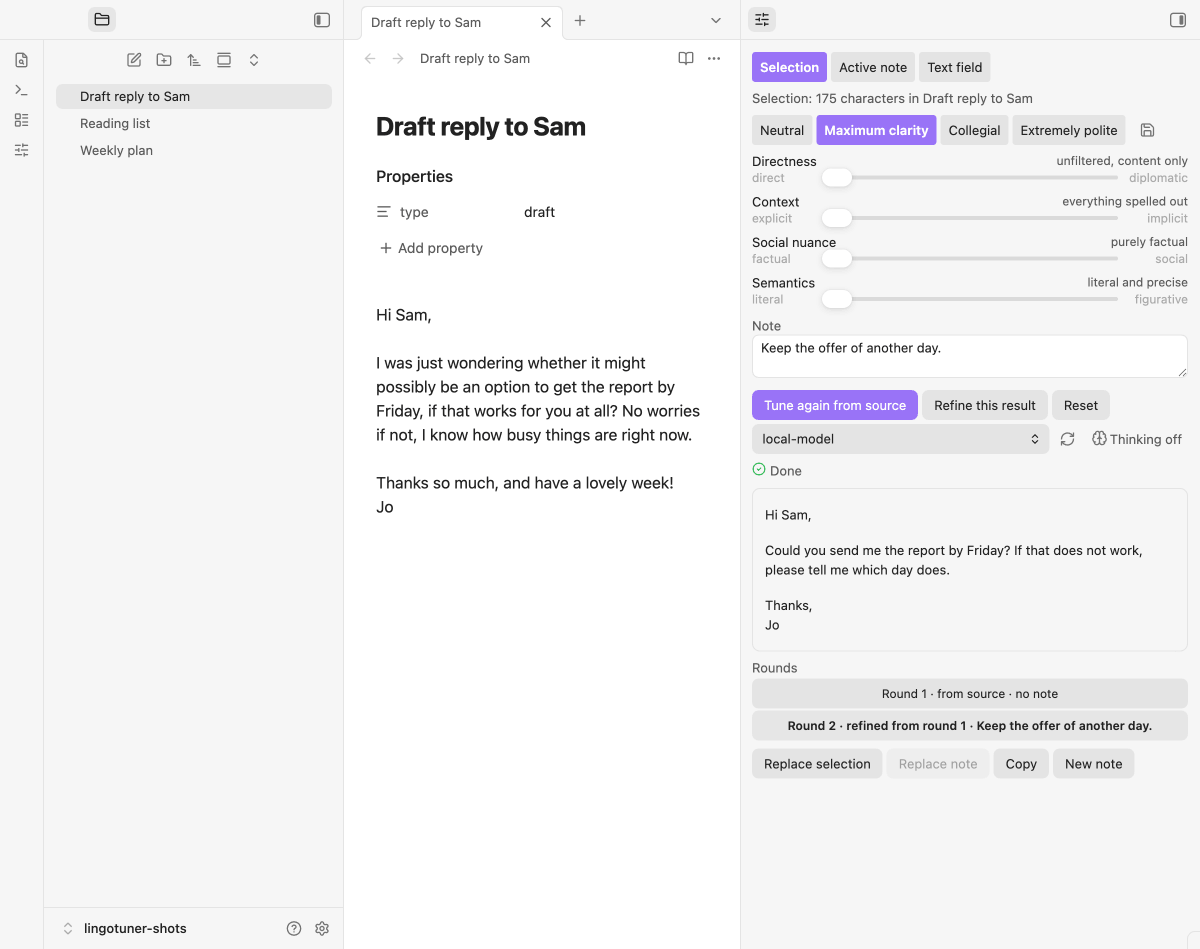
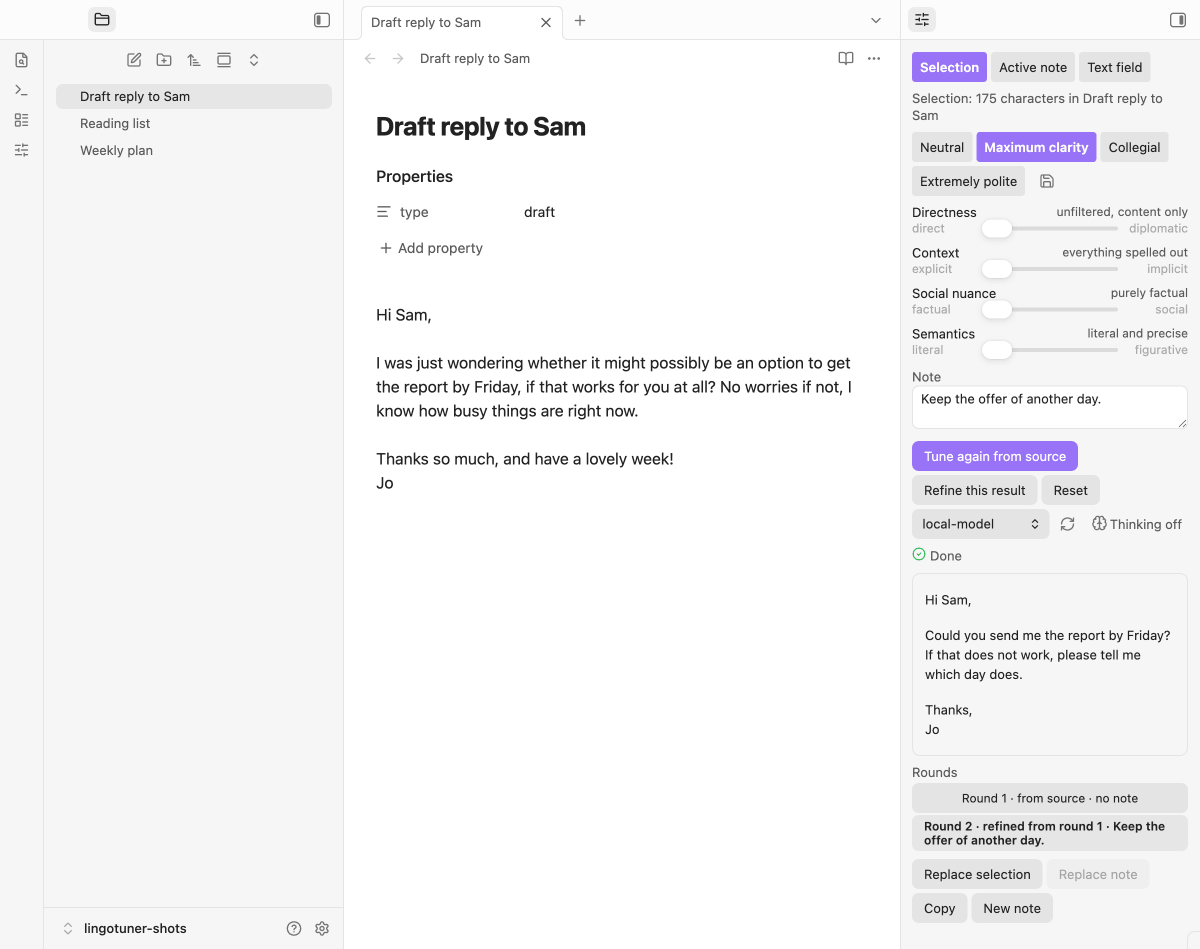
fix(panel): Runden-Zeile bricht um statt links abgeschnitten zu werden; Smoke-Punkt R1; rounds.png in Standardbreite, settings.png mit ganzen Gruppen

diff --git a/scripts/gui-smoke.ts b/scripts/gui-smoke.ts
@@ -1425,6 +1425,79 @@ async function pruefeManager(cdp: Cdp, port: number): Promise<void> {
   }
 }
 
+/** R1 — die Zeile der aktiven Runde laeuft in der Standardbreite der Sidebar nicht ueber (Welle 9).
+ *
+ *  Gemessen wird an einem ECHTEN Lauf gegen einen Fake-Server (zwei Runden, die zweite mit langer
+ *  Anmerkung), bei ~300 px Sidebar-Breite: kein `.lt-history-row` darf breiter scrollen, als es
+ *  ist. Anlass: `rounds.png` fuer die README zeigte den Fehler nur, wenn man ihn ansah — die Zeile
+ *  wurde links abgeschnitten, und die Aufnahme haette ihn mit einer breiteren Sidebar versteckt.
+ *  Gegenprobe: mit der alten Regel (`white-space: nowrap` vom Button) ist dieser Punkt rot. */
+async function pruefeRundenZeile(cdp: Cdp): Promise<void> {
+  const name = "R1 Runden-Zeile laeuft bei ~300 px nicht ueber";
+  let fake: FakeChatEndpoint | null = null;
+  let vorher: { eps: unknown; breite: number } | null = null;
+  try {
+    fake = await startFakeChatEndpoint("smoke-rounds-model");
+    vorher = await cdp.evaluate<{ eps: unknown; breite: number }>(`return { eps: app.plugins.plugins[${q(PLUGIN_ID)}].settings.endpoints, breite: app.workspace.rightSplit.size ?? 300 };`);
+    await cdp.evaluate(`
+      const p = app.plugins.plugins[${q(PLUGIN_ID)}];
+      p.settings.endpoints = [{ url: ${q(fake.url)}, model: "smoke-rounds-model" }];
+      await p.saveSettings();
+      p.invalidateEndpointCache();
+      await p.resolveEndpoint();
+      app.workspace.rightSplit.setSize(300);
+      return { ok: true };
+    `);
+    // Quelle Textfeld, damit kein Editor gebraucht wird; Text tippen, damit die Quelle bereit ist.
+    await waehleQuelle(cdp, 2);
+    await cdp.evaluate(`
+      const el = document.querySelector(".lt-freetext");
+      el.value = "Could you maybe send the report by Friday?";
+      el.dispatchEvent(new Event("input", { bubbles: true }));
+      return { ok: true };
+    `);
+    await setzeNotiz(cdp, "Keep the offer of another day.");
+    const ok1 = await laufeTune(cdp);
+    await setzeNotiz(cdp, "Keep the offer of another day, and mention the deadline once more.");
+    await clickReal(cdp, `document.querySelector(".lt-refine")`);
+    const ok2 = await pollUntil<{ ok: boolean }>(cdp, `return document.querySelectorAll(".lt-history-row").length >= 2 && document.querySelector(".lt-status")?.classList.contains("is-ok") ? { ok: true } : null;`, 30_000, 300);
+    if (!ok1 || ok2 === null) { skipped(name, "zwei Runden liessen sich nicht herstellen (Fake-Lauf nicht gruen)"); return; }
+    await new Promise((r) => setTimeout(r, 400));
+    const m = await cdp.evaluate<{ zeilen: Array<{ scroll: number; client: number; panel: number }> }>(`
+      const p = document.querySelector(".lt-panel");
+      return { zeilen: [...document.querySelectorAll(".lt-history-row")].map((r) => ({ scroll: r.scrollWidth, client: r.clientWidth, panel: p ? p.clientWidth : 0 })) };
+    `);
+    const zu = m.zeilen.filter((z) => z.scroll > z.client + 1);
+    record(name, m.zeilen.length >= 2 && zu.length === 0,
+      zu.length === 0 ? `${m.zeilen.length} Zeilen, scrollWidth <= clientWidth (Panel ${m.zeilen[0]?.panel} px)` : `${zu.length} von ${m.zeilen.length} Zeilen laufen ueber: ${zu.map((z) => `${z.scroll} > ${z.client}`).join(", ")}`);
+  } catch (e) {
+    skipped(name, `Messung abgebrochen: ${(e as Error).message}`);
+  } finally {
+    if (vorher !== null) {
+      await cdp.evaluate(`
+        const p = app.plugins.plugins[${q(PLUGIN_ID)}];
+        p.settings.endpoints = ${JSON.stringify(vorher.eps)};
+        await p.saveSettings();
+        p.invalidateEndpointCache();
+        await p.resolveEndpoint();
+        app.workspace.rightSplit.setSize(${Number(vorher.breite)});
+        return { ok: true };
+      `).catch(() => null);
+    }
+    await waehleQuelle(cdp, 1).catch(() => "");
+    if (fake) await fake.close().catch(() => undefined);
+  }
+}
+
+async function setzeNotiz(cdp: Cdp, text: string): Promise<void> {
+  await cdp.evaluate(`
+    const el = document.querySelector(".lt-note");
+    el.value = ${q(text)};
+    el.dispatchEvent(new Event("input", { bubbles: true }));
+    return { ok: true };
+  `);
+}
+
 /** N1-N4 (Sampling-Profile-Welle, Teil D, Rezept 8): der neue Abschnitt „Anfrage" in den
  *  Settings und die Denk-Steuerung im Panel (`buildThinkingControl`). Kein echter LLM-Server
  *  noetig — alles hier ist DOM-Zustand nach einer Einstellungs-Aenderung. */
@@ -1576,6 +1649,7 @@ async function main(): Promise<void> {
     await pruefeManager(cdp, port);
     await pruefeLab(cdp);
     await pruefeAnfrage(cdp, port);
+    await pruefeRundenZeile(cdp);
     skipped("Markierung ersetzen (Rand-Whitespace)", "Editor-Selektion per CDP ist im Unit-Test abgedeckt (editor-io.test.ts); im Smoke muesste sie ueber CodeMirror gesetzt werden — Handarbeit");
   } finally {
     if (vorherigeDials !== null) {

diff --git a/scripts/shots.ts b/scripts/shots.ts
@@ -215,10 +215,6 @@ const MOTIVE: Motiv[] = [
       fake.setAnswer(ANSWERS.clarity);
       await panelZustand(ws);
       await oeffneMitMarkierung(ws);
-      // Runden-Zeilen tragen Herkunft UND Notiz; in der Standardbreite der Sidebar wird die
-      // zweite links abgeschnitten (Befund an den Master gemeldet) — das Bild zeigt eine breitere.
-      await ws.evaluate(`app.workspace.rightSplit.setSize(460); return { ok: true };`);
-      await sleep(500);
       await waehlePreset(ws, "Maximum clarity");
       await tune(ws);
       fake.setAnswer(ANSWERS.refined);
@@ -274,7 +270,7 @@ async function settingsBild(ws: Cdp, port: number, outDir: string): Promise<stri
       return { y: k ? k.getBoundingClientRect().top : -1 };
     `);
     if (von.y < 0) throw new Error("Gruppe „Connection“ nicht gefunden");
-    const clip: Rect = { x: stil.x - 16, y: von.y - 20, width: stil.width + 32, height: bis.y - von.y };
+    const clip: Rect = { x: stil.x - 16, y: von.y - 28, width: stil.width + 32, height: bis.y - von.y + 28 - 14 };
     const png = await capture(fenster, clip, 2);
     return await writeShot(fenster, "settings.png", png, { outDir, captureWidth: CAPTURE_WIDTH, thumbWidth: THUMB_WIDTH });
   } finally {

diff --git a/styles.css b/styles.css
@@ -196,7 +196,10 @@
 /* Der Verlauf steht fest unter der Vorschau; ab vielen Runden scrollt er in sich, statt der
    Vorschau ihren Platz zu nehmen. */
 .lt-history { display: flex; flex-direction: column; gap: var(--size-2-1); max-height: 20vh; overflow-y: auto; }
-.lt-history-row { text-align: left; font-size: var(--font-ui-smaller); background: var(--background-secondary); color: var(--text-muted); }
+/* Ein `button` haelt seinen Text auf einer Zeile und zentriert Ueberlauf — die Zeile der aktiven Runde
+   (Herkunft + Anmerkung, fett) wurde dadurch in der Standardbreite der Sidebar LINKS abgeschnitten.
+   Umbrechen statt kuerzen: die Anmerkung ist der Inhalt, an dem man Runden unterscheidet. */
+.lt-history-row { text-align: left; white-space: normal; overflow-wrap: anywhere; height: auto; min-height: var(--input-height); font-size: var(--font-ui-smaller); background: var(--background-secondary); color: var(--text-muted); }
 .lt-history-row.is-active { background: var(--background-modifier-hover); color: var(--text-normal); font-weight: var(--font-semibold); }
 
 .lt-outputs { display: flex; flex-wrap: wrap; gap: var(--size-2-2); }

diff --git a/docs/images/README.md b/docs/images/README.md
@@ -18,7 +18,7 @@ Der Treiber startet auf Port 1236 einen Fake-Server, der einen festen, redaktion
 | Datei | Klasse | referenziert von | muss zeigen |
 |---|---|---|---|
 | `hero.png` | hero | README.md, README.de.md (Kopf) | Das ganze Fenster: Notiz „Draft reply to Sam" im Editor, rechts das LingoTuner-Panel mit Quelle „Selection: 175 characters", Preset „Maximum clarity" aktiv, vier Reglern am linken Anschlag, dem gestreamten Ergebnis und den vier Ausgängen (Replace selection, Replace note, Copy, New note) |
-| `rounds.png` | feature | README.md, README.de.md (Usage) | Dasselbe Fenster nach zwei Runden: die Anmerkung „Keep the offer of another day.", das Ergebnis von Runde 2 und die Liste „Rounds" mit „Round 1 · from source · no note" und der aktiven „Round 2 · refined from round 1 · …". Die Seitenleiste ist dafür auf 460 px verbreitert (siehe Status) |
+| `rounds.png` | feature | README.md, README.de.md (Usage) | Dasselbe Fenster nach zwei Runden: die Anmerkung „Keep the offer of another day.", das Ergebnis von Runde 2 und die Liste „Rounds" mit „Round 1 · from source · no note" und der aktiven „Round 2 · refined from round 1 · …". Aufgenommen in der Standardbreite der Seitenleiste (~300 px) |
 | `settings.png` | feature | README.md, README.de.md (Configuration) | Den Einstellungen-Tab von „Connection" bis zum Ende von „Style": Endpunkt-Zeile mit grünem Haken und „active — this one is used", Modell, aufklappbares „Request", Timeout, Override-Ordner, „Write shipped texts into the folder", „No saved presets yet." Die Gruppe „Output" fehlt bewusst: der Tab ist länger als der Bildschirm |
 | `dials.png` | detail | README.md, README.de.md (Usage) | Nur das Panel, Preset „Collegial" aktiv, die vier Regler auf verschiedenen Stufen mit ihren Stufennamen („somewhat more direct", „somewhat warmer"), leere Anmerkung, Knopf „Tune", Statuszeile „Ready" und der leere Vorschaubereich „The tuned text appears here." |
 
@@ -43,5 +43,5 @@ npm run shots:check                                 # readme_lint, muss „keine
 
 Alle vier Bilder liegen (2026-09-26), Zweitinstanz auf Port 9325, jedes Bild selbst angesehen.
 
-- `rounds.png` zeigt eine breitere Seitenleiste als üblich. In der Standardbreite (≈300 px) wird die Zeile der aktiven Runde links abgeschnitten („2 · refined from round 1 · Keep the offer of anoth…") — ein Befund am Plugin, nicht am Bild; er ist an den Master gemeldet.
+- `rounds.png` entstand zuerst bei 460 px Seitenleiste, weil die Zeile der aktiven Runde in der Standardbreite links abgeschnitten wurde. Der Fehler ist behoben (`styles.css`: `.lt-history-row` bricht um), gemessen vom Smoke-Punkt R1; das Bild ist in Standardbreite neu aufgenommen.
 - Der Fake-Server-Port 1236 muss frei sein; der Treiber meldet es, wenn nicht.

diff --git a/docs/internal/SMOKE.md b/docs/internal/SMOKE.md
@@ -456,3 +456,7 @@ beim **zweiten** Lauf sonst den Rest des ersten und ist rot, ohne dass sich am P
 geändert hätte. Der Treiber stellt den Ausgangszustand deshalb selbst her
 (`setzeAusgangszustand`: Layout leer, Regler neutral) und schreibt den Vorwert im `finally`
 zurück — der Lauf behält nichts vom Wirt.
+
+## R1 — Runden-Zeile bei ~300 px (Welle 9, 2026-09-26)
+
+Ein echter Lauf gegen einen Fake-Server, zwei Runden, die zweite mit langer Anmerkung, Sidebar auf 300 px: jede `.lt-history-row` muss `scrollWidth <= clientWidth` haben. Anlass: die aktive Zeile (fett, Herkunft plus Anmerkung) wurde links abgeschnitten, weil ein `button` seinen Text auf einer Zeile hält und Überlauf zentriert. Gegenprobe am alten Stand (`styles.css` aus `98df558`): rot, „2 von 6 Zeilen laufen über: 297 > 276, 452 > 276"; mit der Regel `white-space: normal` grün, 39 grün / 0 rot / 2 übersprungen von 41.

diff --git a/CHANGELOG.md b/CHANGELOG.md
@@ -10,6 +10,9 @@ All notable changes to this project are documented here. The format follows
 - **Nutzer-Dokumentation.** `docs/README.md` als Index, dazu *Getting started* und *Troubleshooting* (die Meldungen wörtlich aus dem Plugin, je mit Ursache und Abhilfe). Die README verlinkt sie im Abschnitt „Documentation“.
 - **README-Bilder** (Hero, Runden, Einstellungen, Regler), reproduzierbar per `npm run shots`; Aufnahme-Vertrag in `docs/images/README.md`.
 
+### Fixed
+- **Die Zeile der aktiven Runde wurde in der Standardbreite der Seitenleiste links abgeschnitten.** Ein Button hält seinen Text auf einer Zeile und zentriert den Überlauf; die Zeile bricht jetzt um. Der GUI-Smoke misst das mit dem neuen Punkt R1 (bei ~300 px, Gegenprobe am alten Stand rot).
+
 ### Changed
 - `docs/LAB.md` und `docs/SMOKE.md` liegen jetzt unter `docs/internal/` (Wartungsmaterial, keine Nutzer-Doku).
 
